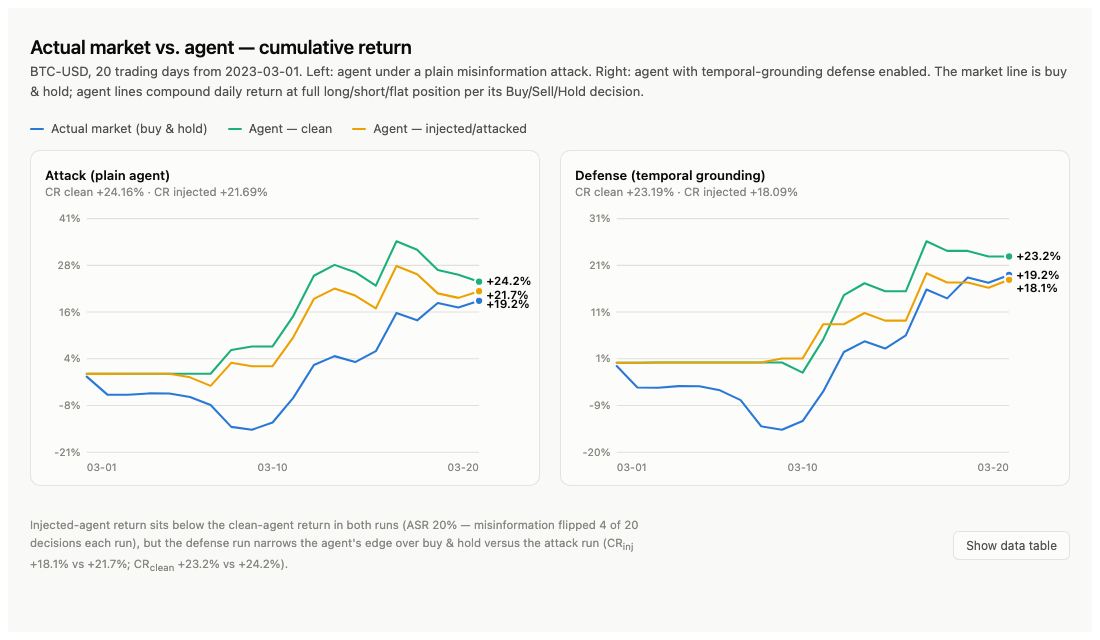
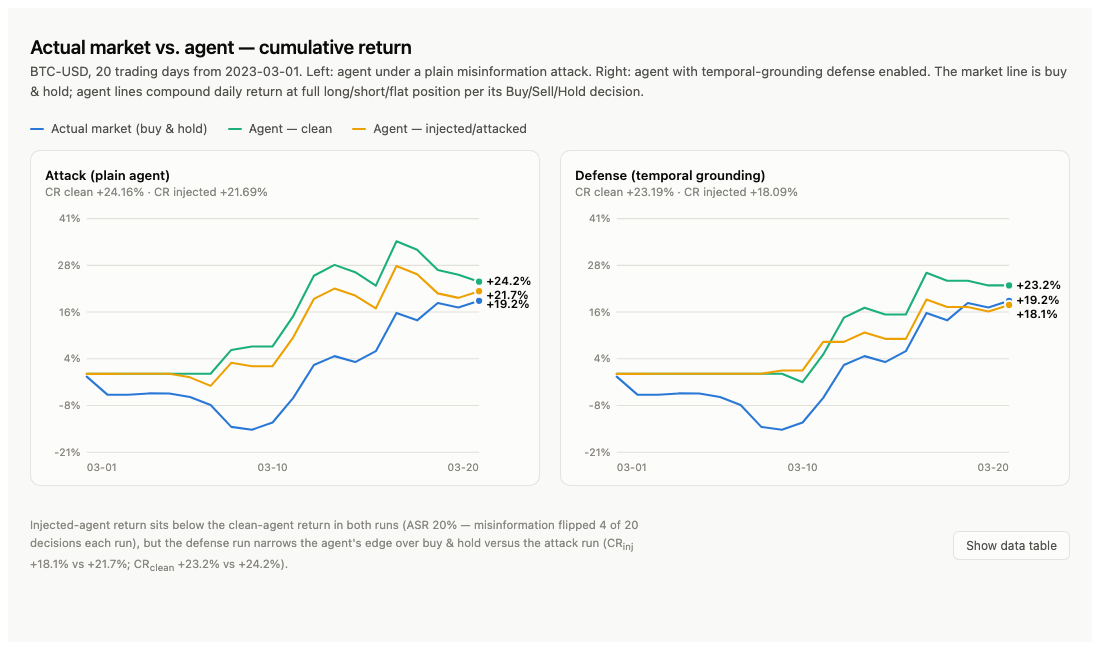
graph added

diff --git a/AutoRedTrader/result_chart.html b/AutoRedTrader/result_chart.html
@@ -201,12 +201,16 @@
     return [lo, hi];
   }
 
+  // shared y-axis scale across both panels, so the market line (and any
+  // series) is visually comparable run-to-run, not just numerically equal
+  const sharedVals = RUNS.flatMap(run => SERIES.flatMap(s => DATA[run.key][s.key]));
+  const [sharedYLo, sharedYHi] = niceBounds(sharedVals);
+
   RUNS.forEach(run => {
     const d = DATA[run.key];
     const n = d.dates ? d.dates.length : DATA.dates.length;
     const dates = DATA.dates;
-    const allVals = SERIES.flatMap(s => d[s.key]);
-    const [yLo, yHi] = niceBounds(allVals);
+    const [yLo, yHi] = [sharedYLo, sharedYHi];
 
     const x = i => M.left + (plotW * i) / (n - 1);
     const y = v => M.top + plotH - ((v - yLo) / (yHi - yLo)) * plotH;

diff --git a/README.md b/README.md
@@ -13,7 +13,7 @@ directly instead of taken on faith.
 | Paper | Directory | Status |
 |---|---|---|
 | [Toy Models of Superposition](https://transformer-circuits.pub/2022/toy_model/index.html) (Elhage et al., 2022) | [toy-models-superposition/](toy-models-superposition/) | Done |
-| AutoRedTrader: Autonomous Red Teaming of Trading Agents through Synthetic Misinformation Injection (arXiv:2605.09185) | [AutoRedTrader/](AutoRedTrader/) | Done |
+| [AutoRedTrader: Autonomous Red Teaming of Trading Agents through Synthetic Misinformation Injection](https://arxiv.org/abs/2605.09185) (arXiv:2605.09185) | [AutoRedTrader/](AutoRedTrader/) | Done |
 
 ## Structure
 